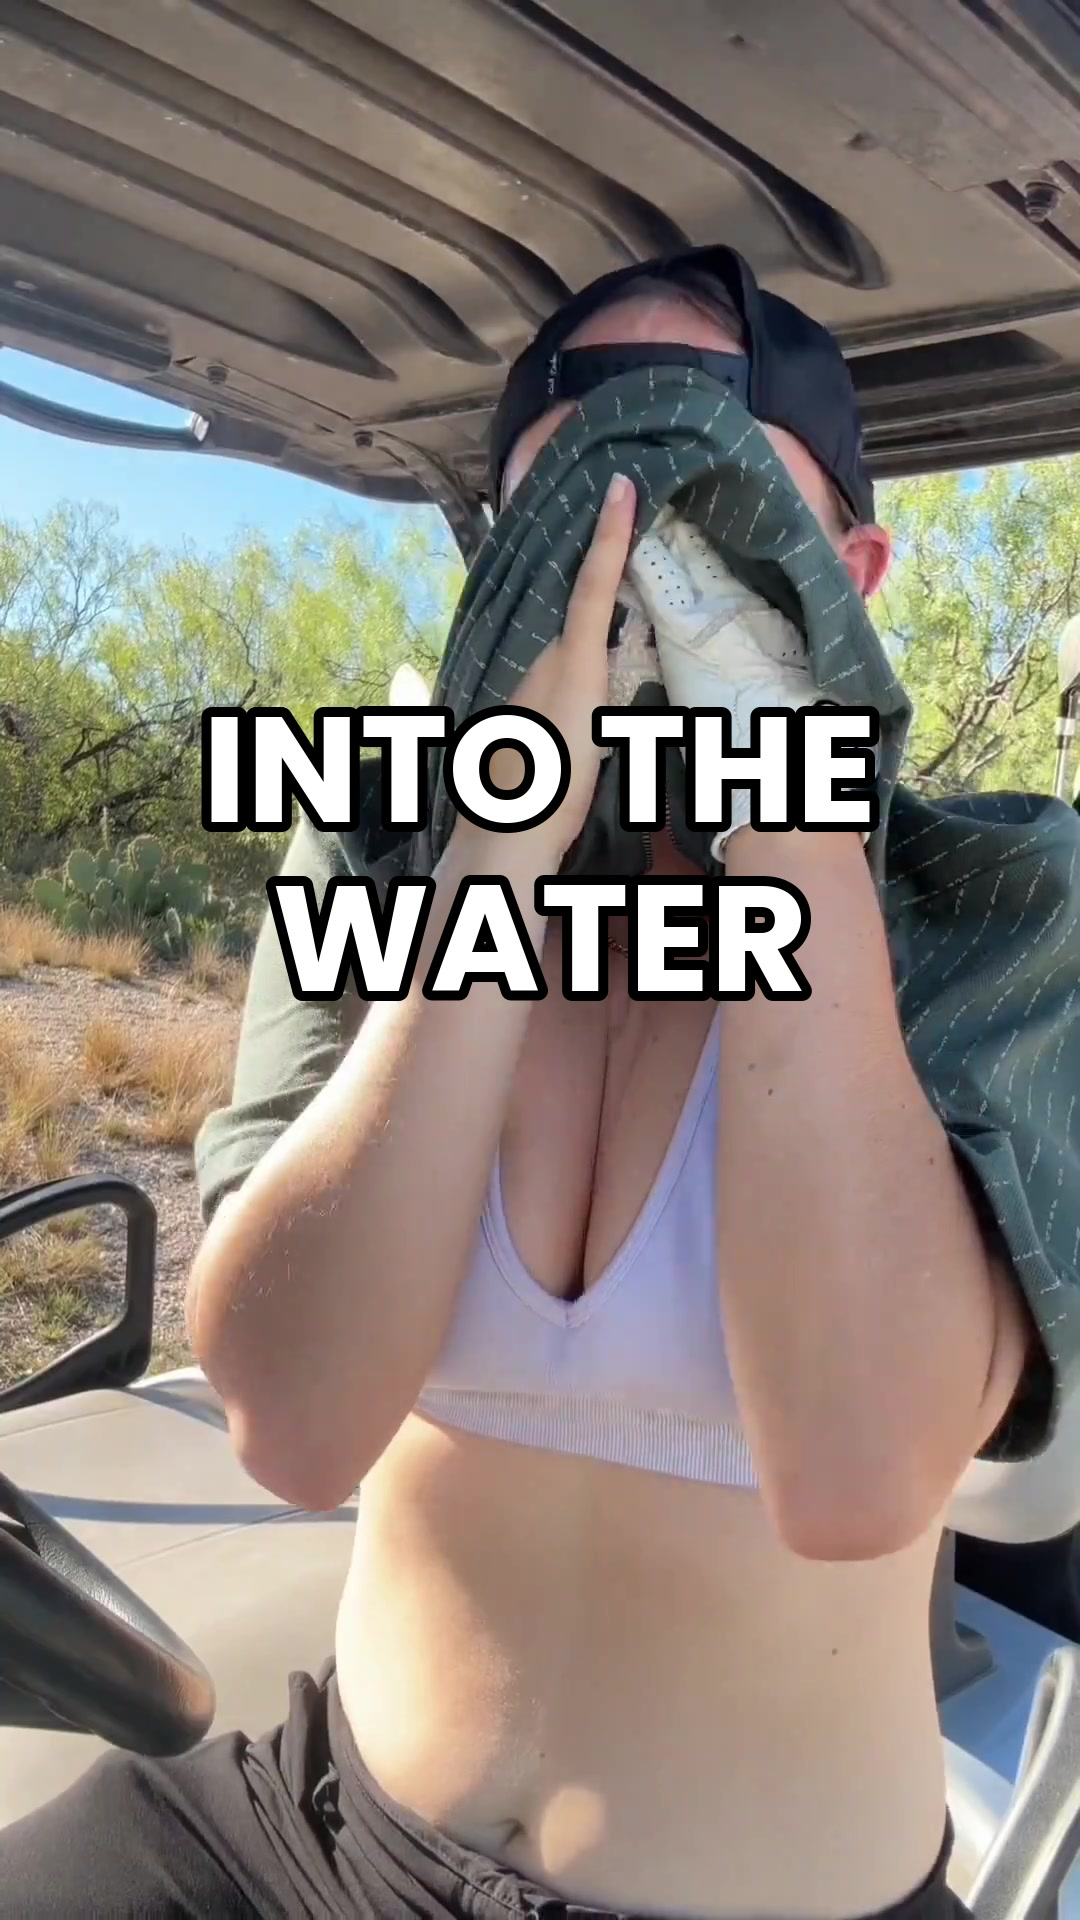
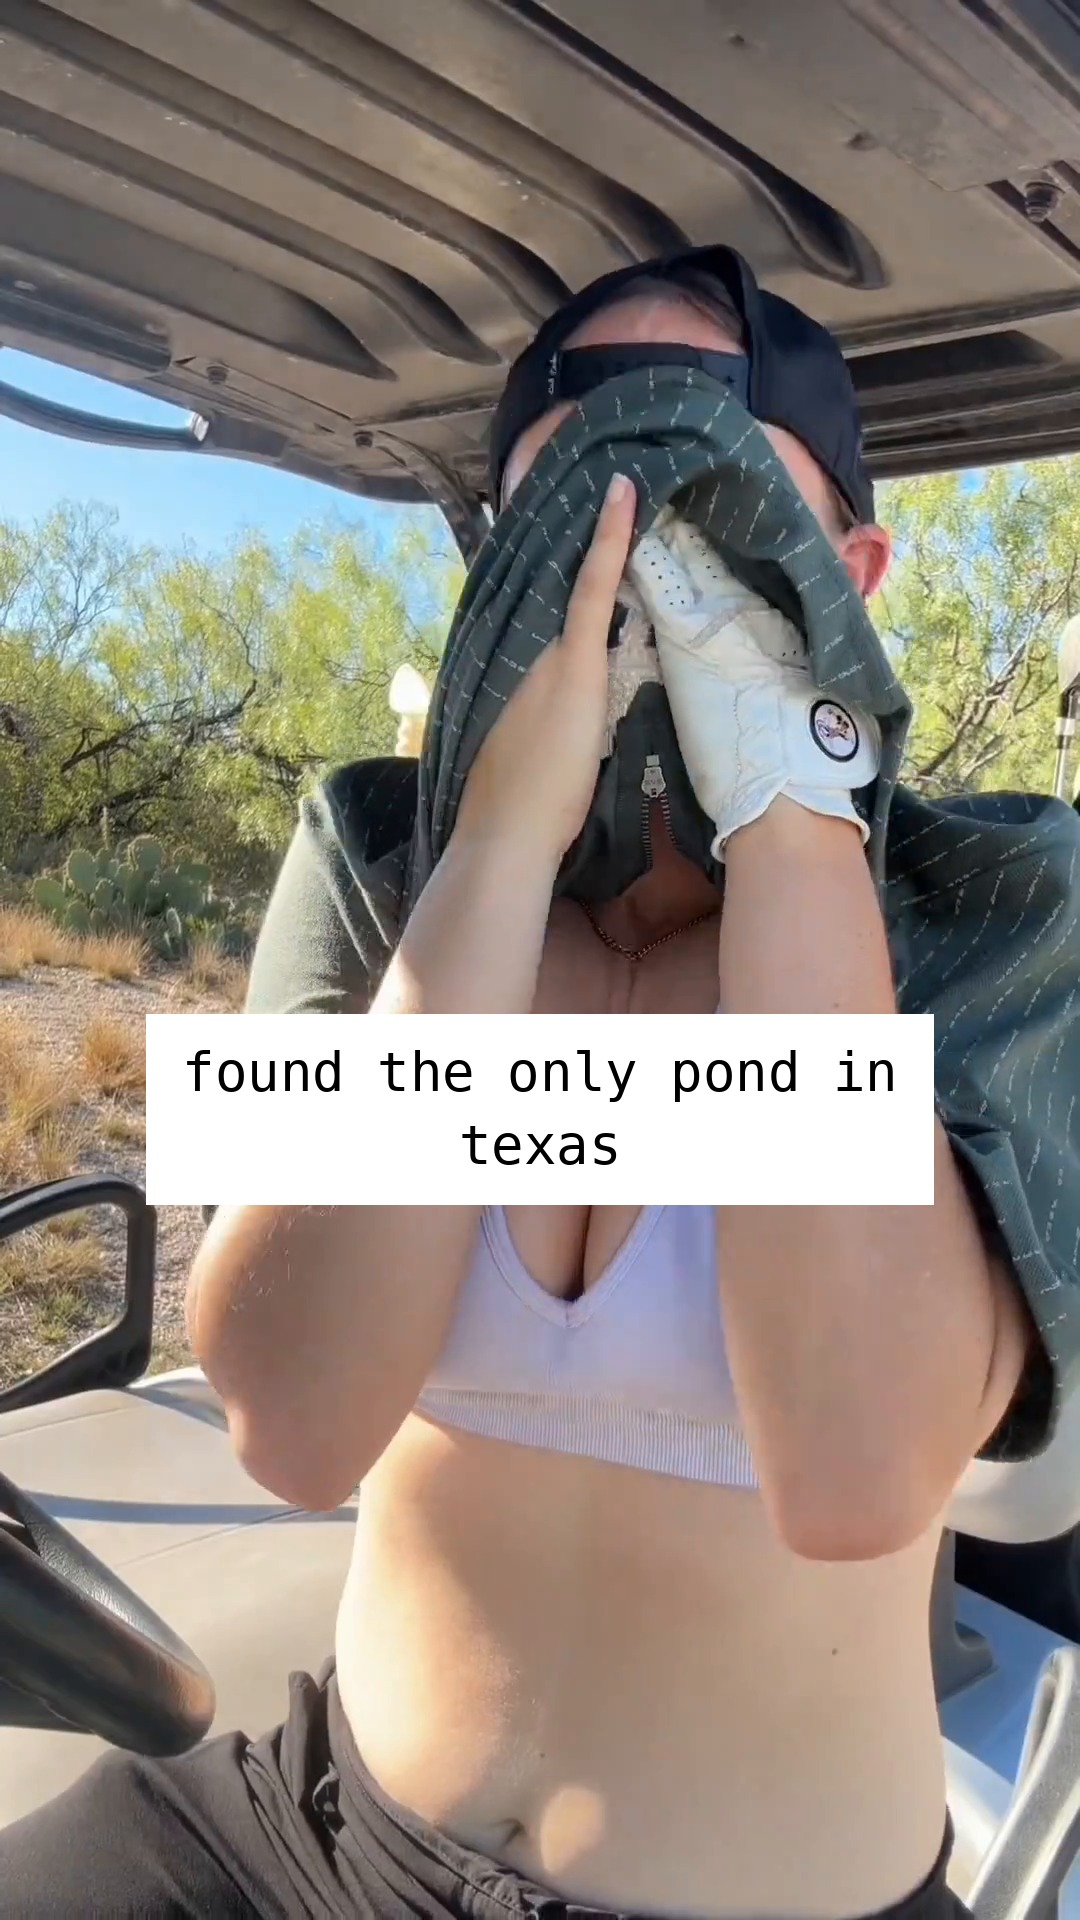
A covers in grid styles (typewriter pond, red pill cactus, plain driver-putter)
Claude-Session: https://claude.ai/code/session_01VrXQrk1uV4eVJ8r4xmr9Pr

Changed region(s): [[0.1222, 0.3438, 0.8861, 0.625]]

diff --git a/tools/cover_a.py b/tools/cover_a.py
@@ -1,0 +1,41 @@
+#!/usr/bin/env python3
+"""A cover in Mack's grid styles (covers/grid-reference.png).
+usage: cover_a.py video.mp4 t_seconds out.jpg STYLE "text" [color]
+STYLE: pill (Macky vs. ___ box; color orange|red|yellow|purple|blue),
+       type (lowercase typewriter note on white), none (plain frame).
+Text sits mid-frame (~55-62% down), inside the center square so the grid crop keeps it."""
+import subprocess, sys, tempfile, textwrap
+from PIL import Image, ImageDraw, ImageFont
+
+video, t, out, style = sys.argv[1:5]
+text = sys.argv[5] if len(sys.argv) > 5 else ""
+color = sys.argv[6] if len(sys.argv) > 6 else "orange"
+COLORS = {"orange": "#F7931E", "red": "#E8101A", "yellow": "#F5C518", "purple": "#A21CAF", "blue": "#1E90FF"}
+tmp = tempfile.mktemp(suffix=".png")
+subprocess.run(["ffmpeg", "-v", "error", "-y", "-ss", t, "-i", video, "-frames:v", "1", tmp], check=True)
+im = Image.open(tmp).convert("RGB")
+W, H = im.size
+d = ImageDraw.Draw(im)
+if style == "pill":
+    f = ImageFont.truetype("/usr/share/fonts/truetype/google-fonts/Poppins-Bold.ttf", int(W * 0.075))
+    lines = textwrap.wrap(text, 20)
+    lh = int(W * 0.095)
+    y = int(H * 0.57) - lh * len(lines) // 2
+    for ln in lines:
+        bw = d.textlength(ln, font=f)
+        x = (W - bw) / 2
+        d.rounded_rectangle([x - 34, y - 8, x + bw + 34, y + lh - 4], radius=22, fill=COLORS[color])
+        d.text((x, y - 4), ln, font=f, fill="white")
+        y += lh
+elif style == "type":
+    f = ImageFont.truetype("/usr/share/fonts/truetype/dejavu/DejaVuSansMono.ttf", int(W * 0.05))
+    lines = textwrap.wrap(text.lower(), 22)
+    lh = int(W * 0.068)
+    tw = max(d.textlength(l, font=f) for l in lines)
+    x0 = (W - tw) / 2
+    y0 = int(H * 0.58) - lh * len(lines) // 2
+    d.rectangle([x0 - 36, y0 - 26, x0 + tw + 36, y0 + lh * len(lines) + 18], fill="white")
+    for i, l in enumerate(lines):
+        d.text(((W - d.textlength(l, font=f)) / 2, y0 + i * lh), l, font=f, fill="black")
+im.save(out, quality=92)
+print(out, W, H, style, repr(text))
